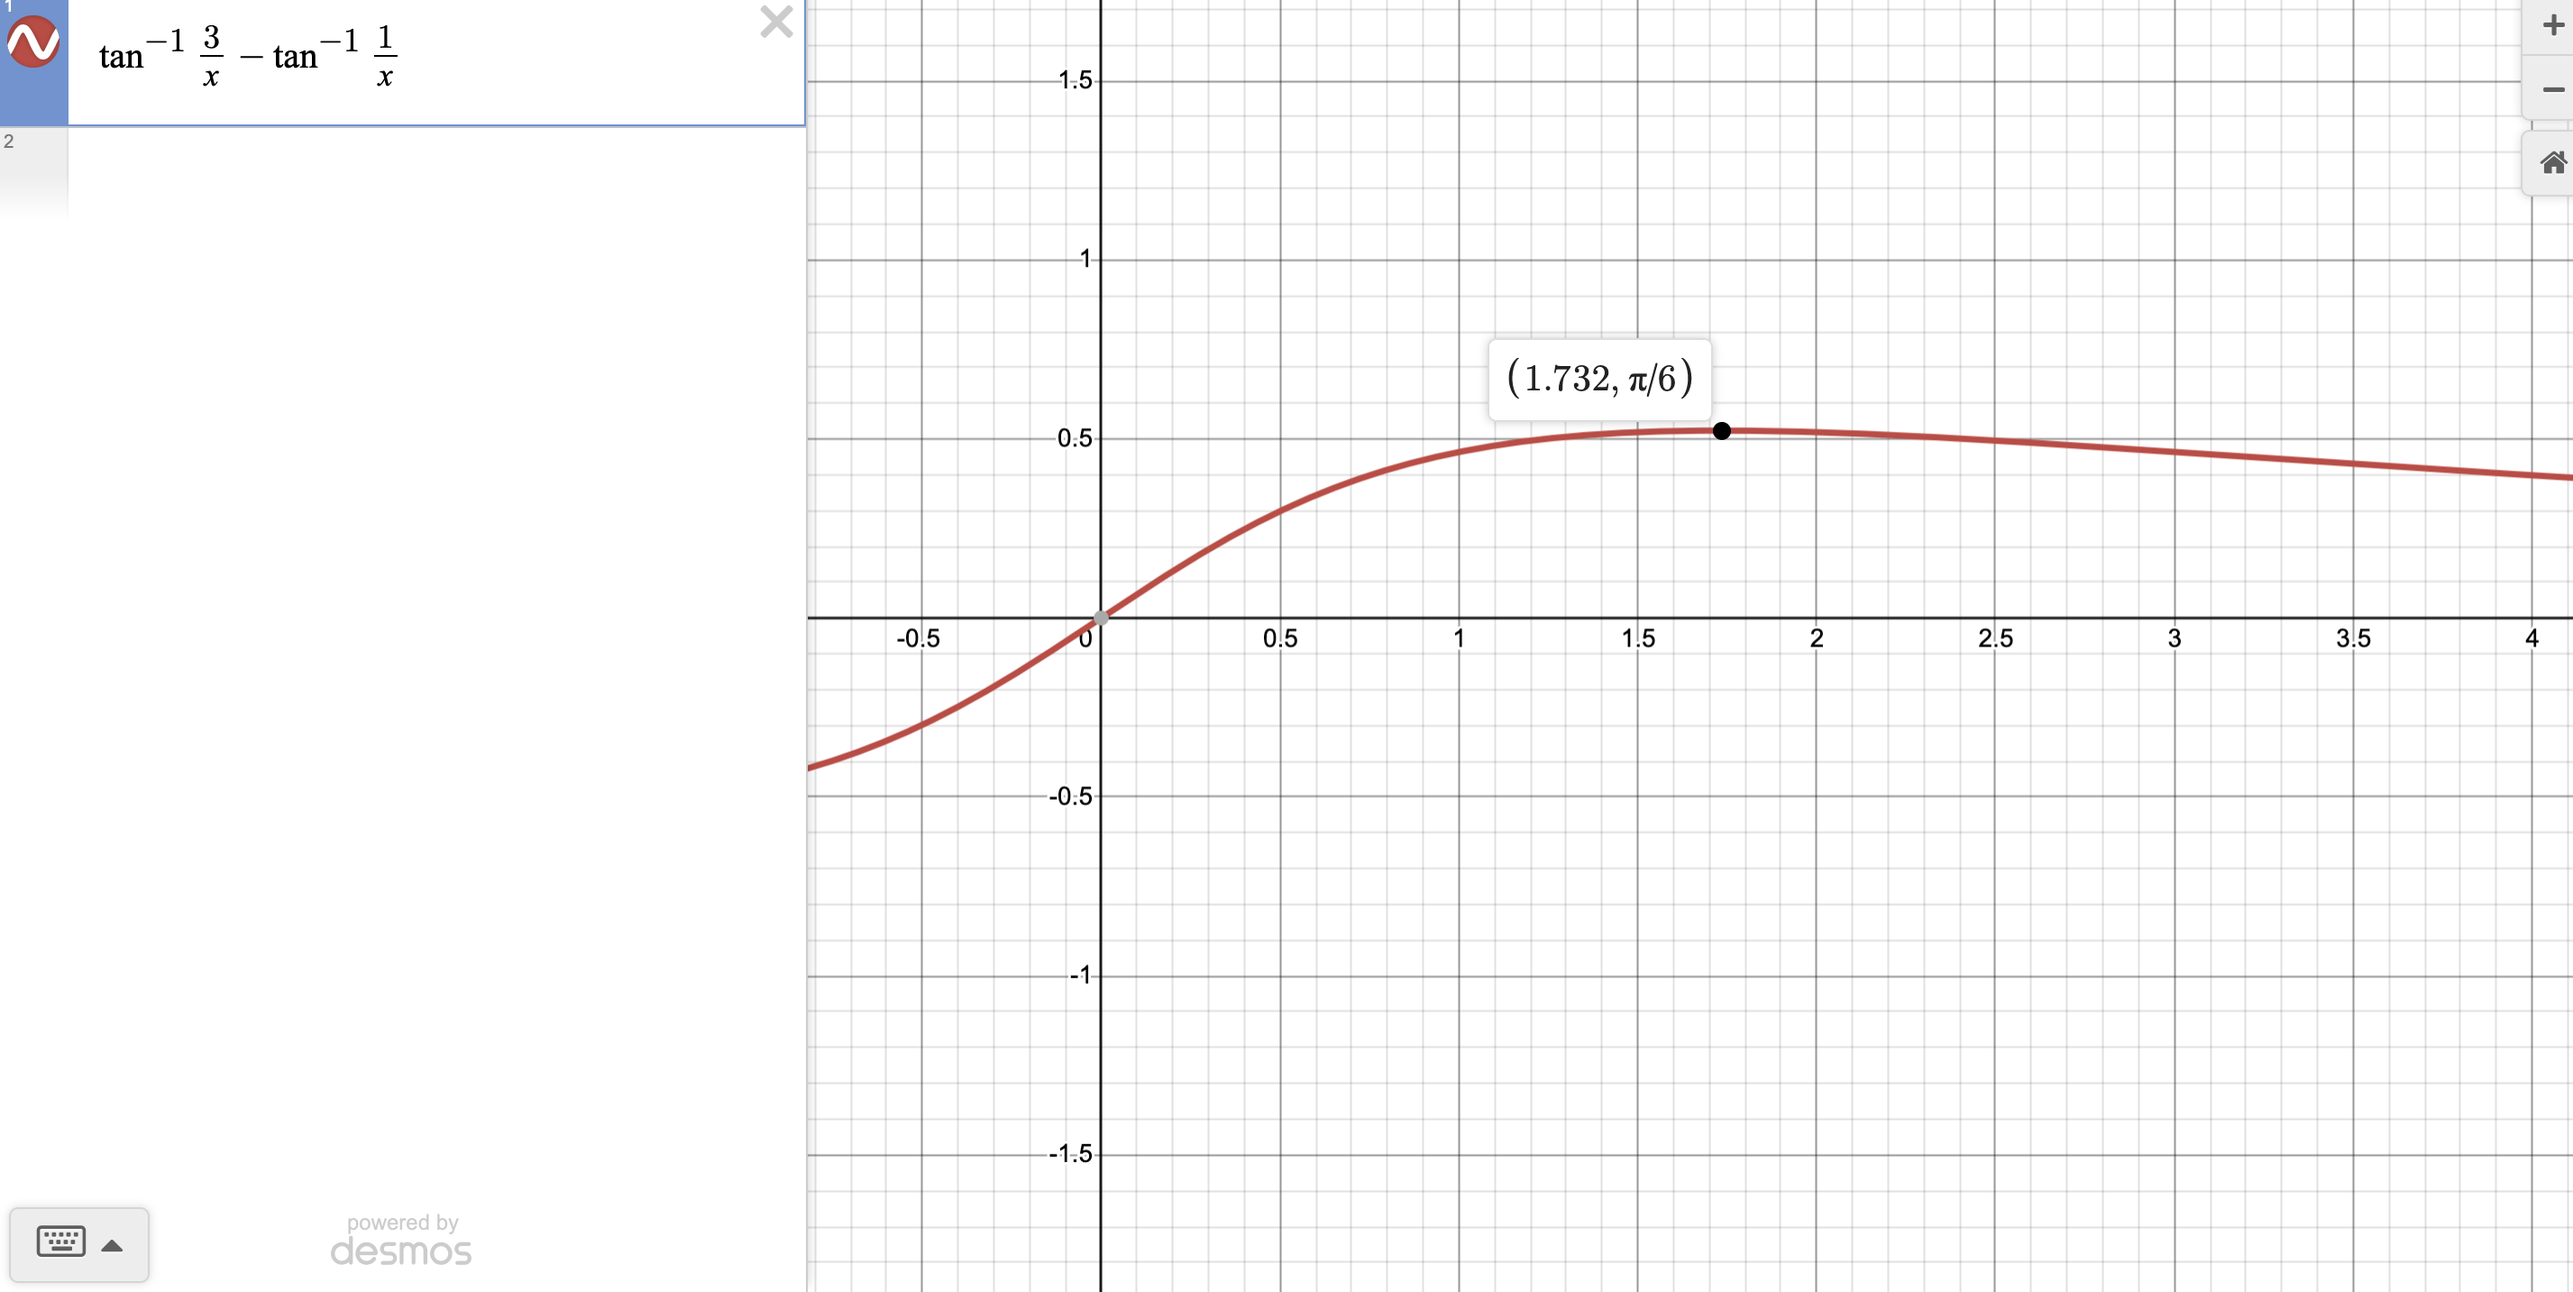
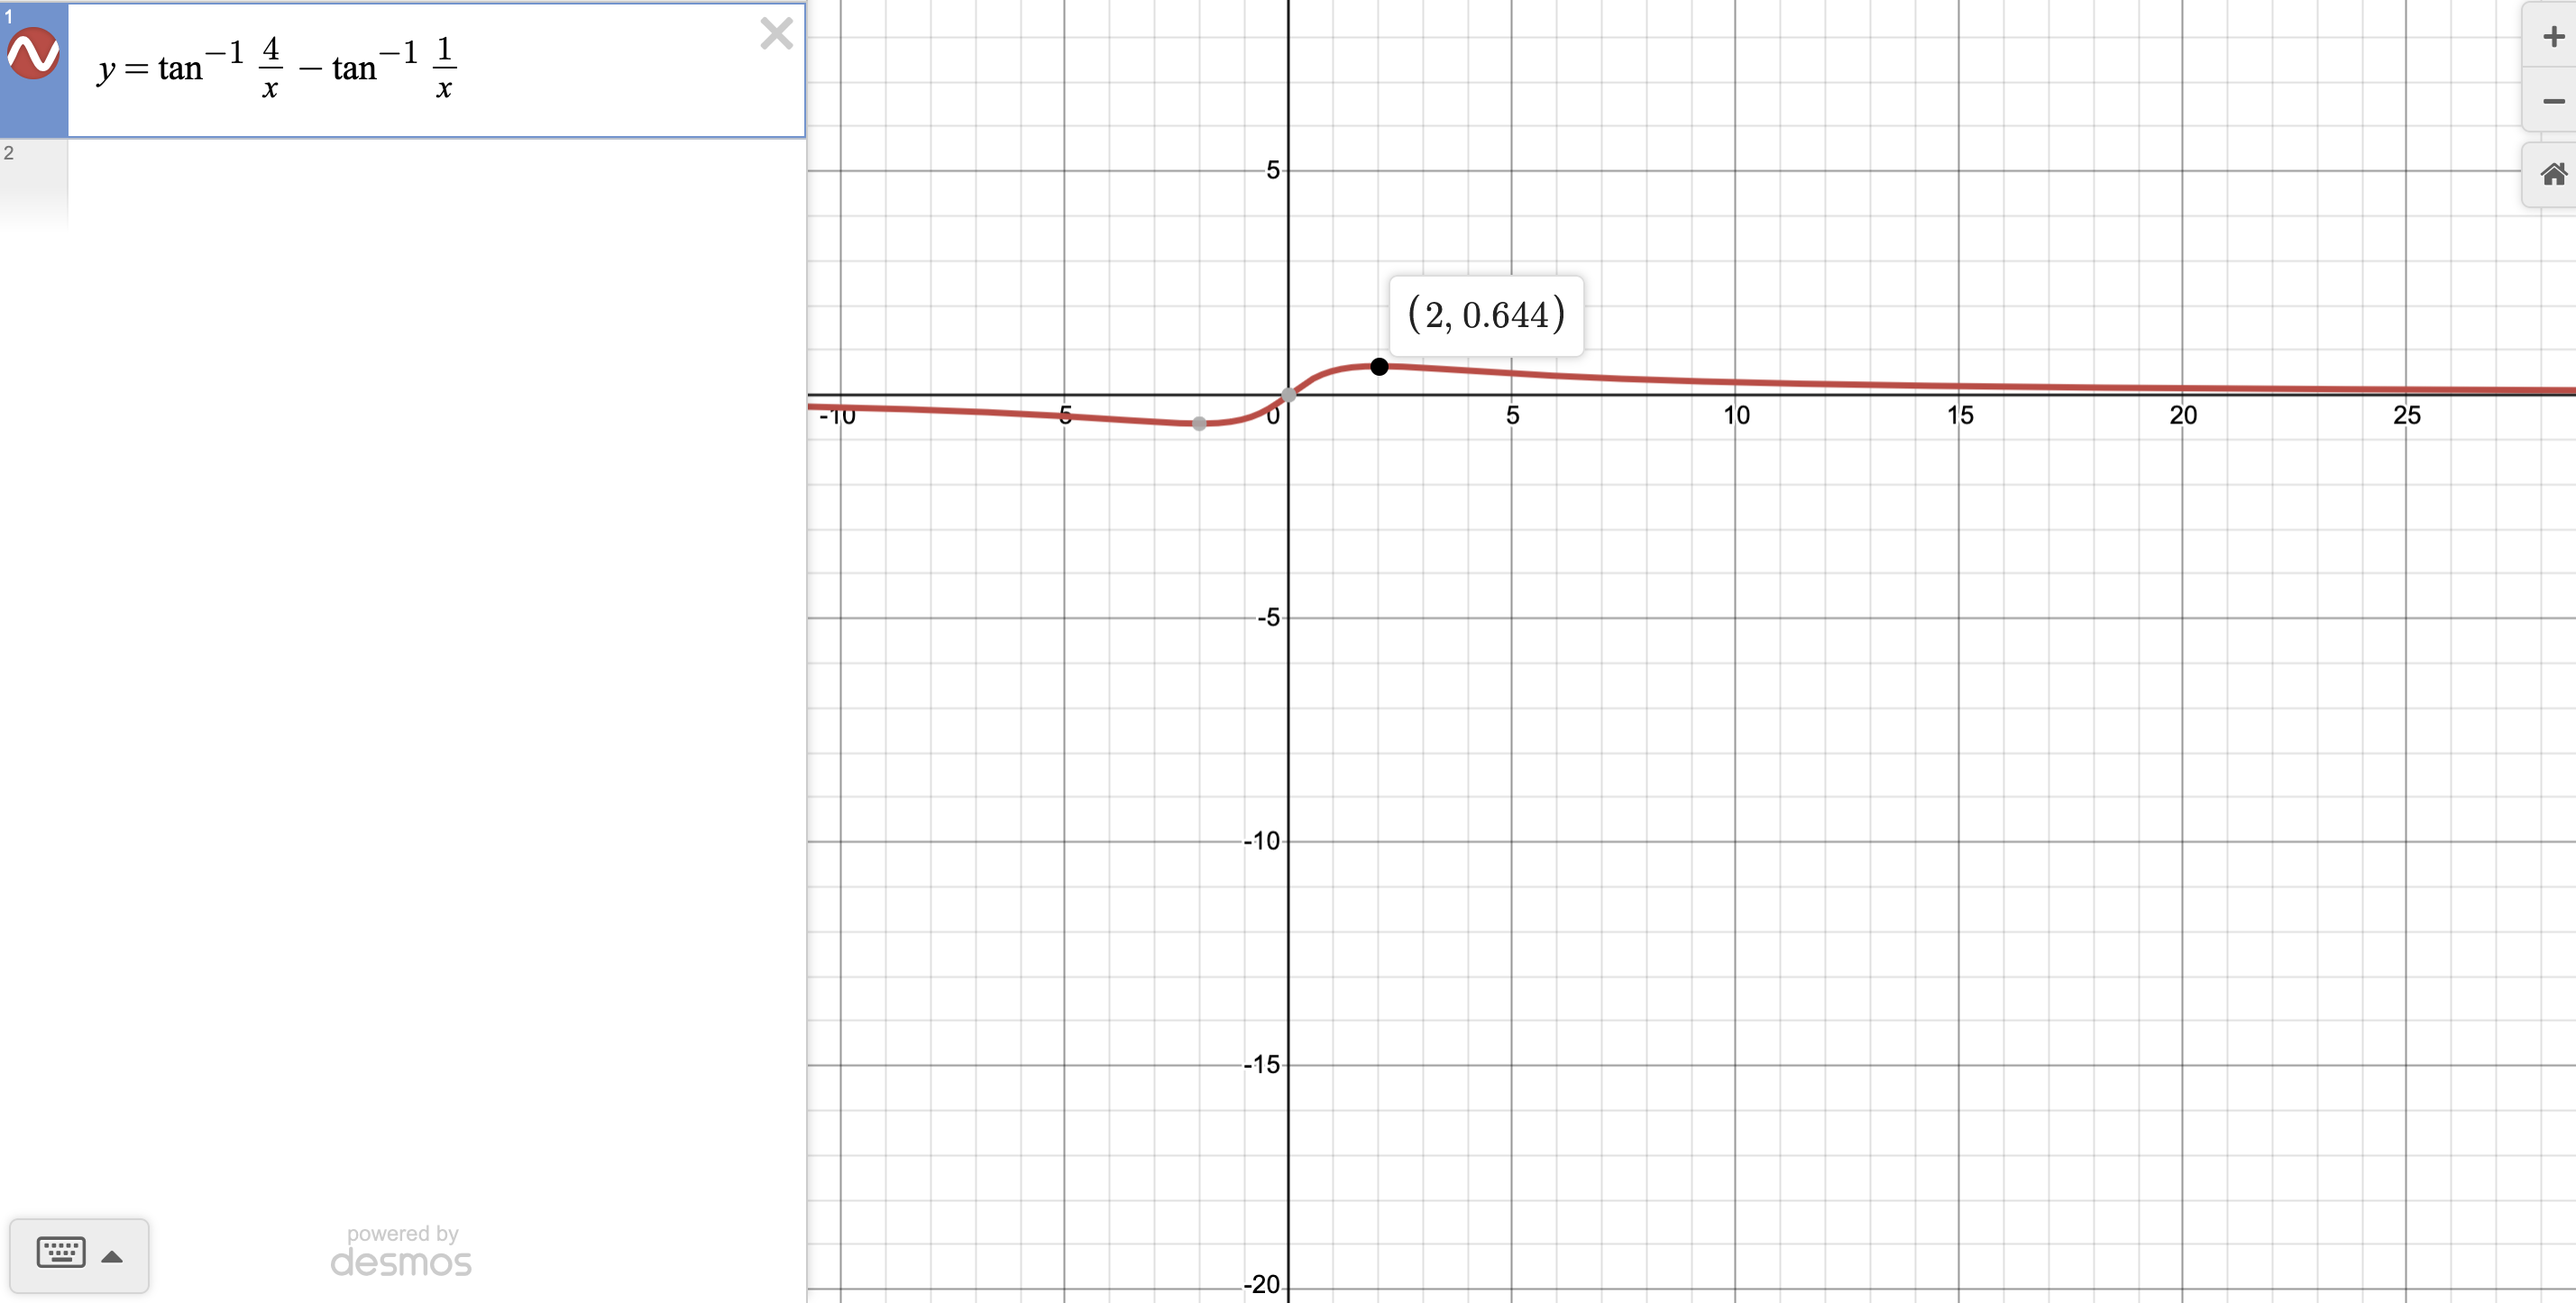
fixed problems 10, 37, and 40 of 9.4. Still could not solve 38 part (d)

diff --git a/chapter9/9.4.tex b/chapter9/9.4.tex
@@ -71,7 +71,8 @@ $-\frac{\pi}{6}$.
 
 \section*{10}
 When $0^\circ\le\theta\le 180^\circ$, or $0\le\theta\le\pi$,
-\[ \theta=\cos^{-1}(\frac{1}{2})=60^\circ \] or $\frac{\pi}{3}$.
+\[ \theta=\cos^{-1}(-\frac{1}{2})=120^\circ \] or $\frac{2\pi}{3}$, as
+\[ \cos 120^\circ=-\cos (180-120)^\circ=-\cos 60^\circ=-\frac{1}{2} \]
 
 \section*{11}
 When $0^\circ\le\theta\le 180^\circ$, or $0\le\theta\le\pi$,
@@ -139,24 +140,29 @@ $-1\le x\le 1$.
 \[ \sec\left(\cos^{-1}x\right)=\dfrac{1}{\cos\left(\cos^{-1}x\right)}=\dfrac{1}{x} \] provided that $-1\le x\le 1$. 
 
 \section*{37}
-We know that the rock salt is stored 11 feet high, and the diameter of the pile's base is 34 feet. Thus we can form a right triangle with one leg measuring 11, the and the 
-other measuring $\frac{34}{2}=17$. Also, the angle of repose $\theta$ is adjacent to the leg which is 11 feet. Thus $\tan\theta=\frac{34}{11}$ meaning
-\[ \theta=\tan^{-1}\frac{34}{11}\approx 72.07 \] In the second case, we know that the angle of repose is about $72.07$, and the height of the pile is 15 feet. Let 
-$d$ be the diameter of the base. Thus
-\[ \tan 72.07=\frac{d}{15} \]
-\[ d=15\tan 72.07 \]
-\[ d\approx 46.36 \]
+We know that the rock salt is stored 11 feet high, and the diameter of the pile's base is 34 feet. Thus we can form a right triangle with one leg measuring 11, and the 
+other measuring $\frac{34}{2}=17$. Also, the angle of repose $\theta$ is adjacent to the leg which is 17 feet. Thus $\tan\theta=\frac{11}{17}$ meaning
+\[ \theta=\tan^{-1}\frac{11}{17}\approx 32.91 \] In the second case, we know that the angle of repose is about $32.91$, and the height of the pile is 15 feet. Let 
+$d$ be the diameter of the base. Thus, for the radius $r$:
+\[ \tan 32.91^\circ=\frac{15}{r} \]
+\[ r=\frac{15}{\tan 32.91^\circ} \]
+\[ r\approx 23.18 \]
+meaning $d\approx 23.18\times 2=46.36$ feet. We could alternatively answer the second question by using similar triangles. We know that
+\[ \frac{15}{11}=\frac{r}{17} \]
+\[ r\approx 23.18 \]
+and thus $d\approx 23.18\times 2=46.36$ feet.
 
 \section*{38}
-(a): We are given that we are in 4 feet of water, $\theta_1=70^\circ$, and that $\frac{\theta_1}{\theta_2}=1.333$. Thus
-\[ \frac{70}{\theta_2}=1.333 \]
-\[ \theta_2=\frac{70}{1.333}\approx 52.51 \]
+(a): We are given that we are in 4 feet of water, $\theta_1=70^\circ$, and that $\frac{\sin\theta_1}{\sin\theta_2}=1.333$. Thus
+\[ \frac{\sin 70^\circ}{\sin \theta_2}=1.333 \]
+\[ \sin \theta_2=\frac{\sin 70^\circ}{1.333} \]
+\[ \theta_2\approx 44.825 \]
 
 
-(b): Because $\theta_2=52.51$, 
-\[ \tan 52.51=\frac{x}{4} \]
-\[ x=4\tan 52.51 \]
-\[ x\approx 5.21 \] feet.
+(b): Because $\theta_2=44.825$, 
+\[ \tan 44.825=\frac{x}{4} \]
+\[ x=4\tan 44.825 \]
+\[ x\approx 3.976 \] feet.
 Using the straight angles in the diagram, it is easy to show that the right triangle in the diagram whose legs are $4$ and $y$ is such that the angle adjacent 
 to the leg measuring 4 feet measures $\theta_1$ degrees. Thus we know that
 \[ \tan 70=\frac{y}{4} \]
@@ -164,10 +170,10 @@ to the leg measuring 4 feet measures $\theta_1$ degrees. Thus we know that
 \[ y\approx 10.99 \] feet.
 
 
-(c): Thus $d=y-x=10.99-5.21=5.78$ feet.
+(c): Thus $d=y-x=10.99-3.976=7.014$ feet.
 
 
-(d): I was not able to answer this.
+(d): I was unable to solve this.
 
 \section*{39}
 We are given that you are 100 feet from the striaghtaway, and that the cyclist is traveling 30 miles per hour. We first convert 30 miles per hour to feet per second:
@@ -177,7 +183,7 @@ $44t$, meaning the angle we have to turn our head to see the cyclist $t$ seconds
 \[ \tan^{-1}(\frac{44t}{100}) \]
 
 \section*{40}
-One can see that $\theta=\tan^{-1}\frac{3}{x}-\tan^{-1}\frac{1}{x}$:\newline
-\includegraphics[width = 4in, height = 2in]{40}\newline From the above graph, we can see that $x=1.732$ maximizes $\theta$ at $\frac{\pi}{6}$, or 
-$30^\circ$.
+One can see that $\theta=\tan^{-1}\frac{4}{x}-\tan^{-1}\frac{1}{x}$:\newline
+\includegraphics[width = 4in, height = 2in]{40}\newline From the above graph, we can see that $x=2$ maximizes $\theta$ at $0.644$ radians.
+ 
 \end{document}
